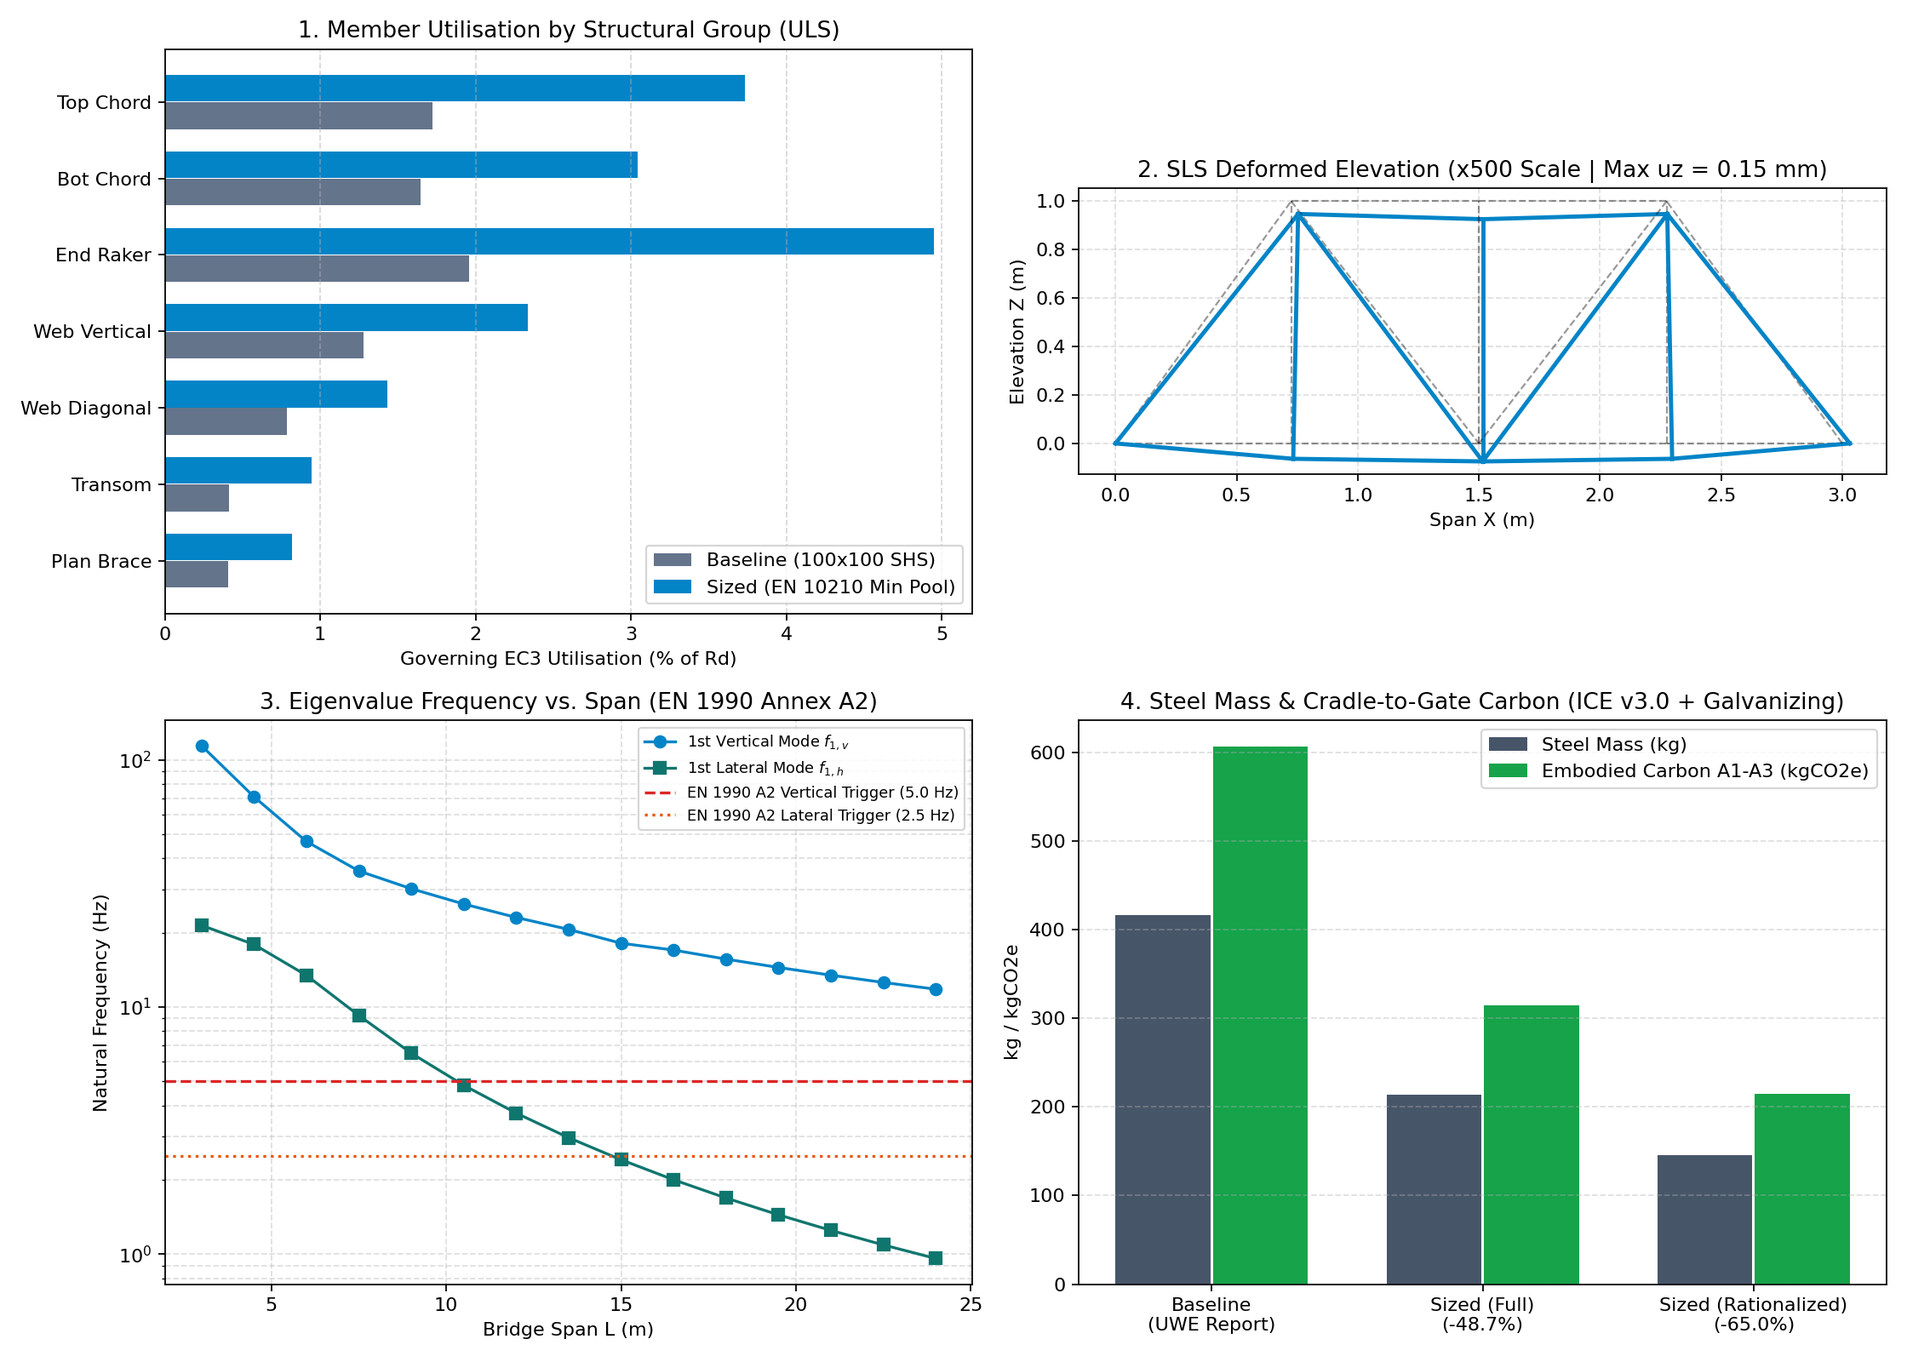
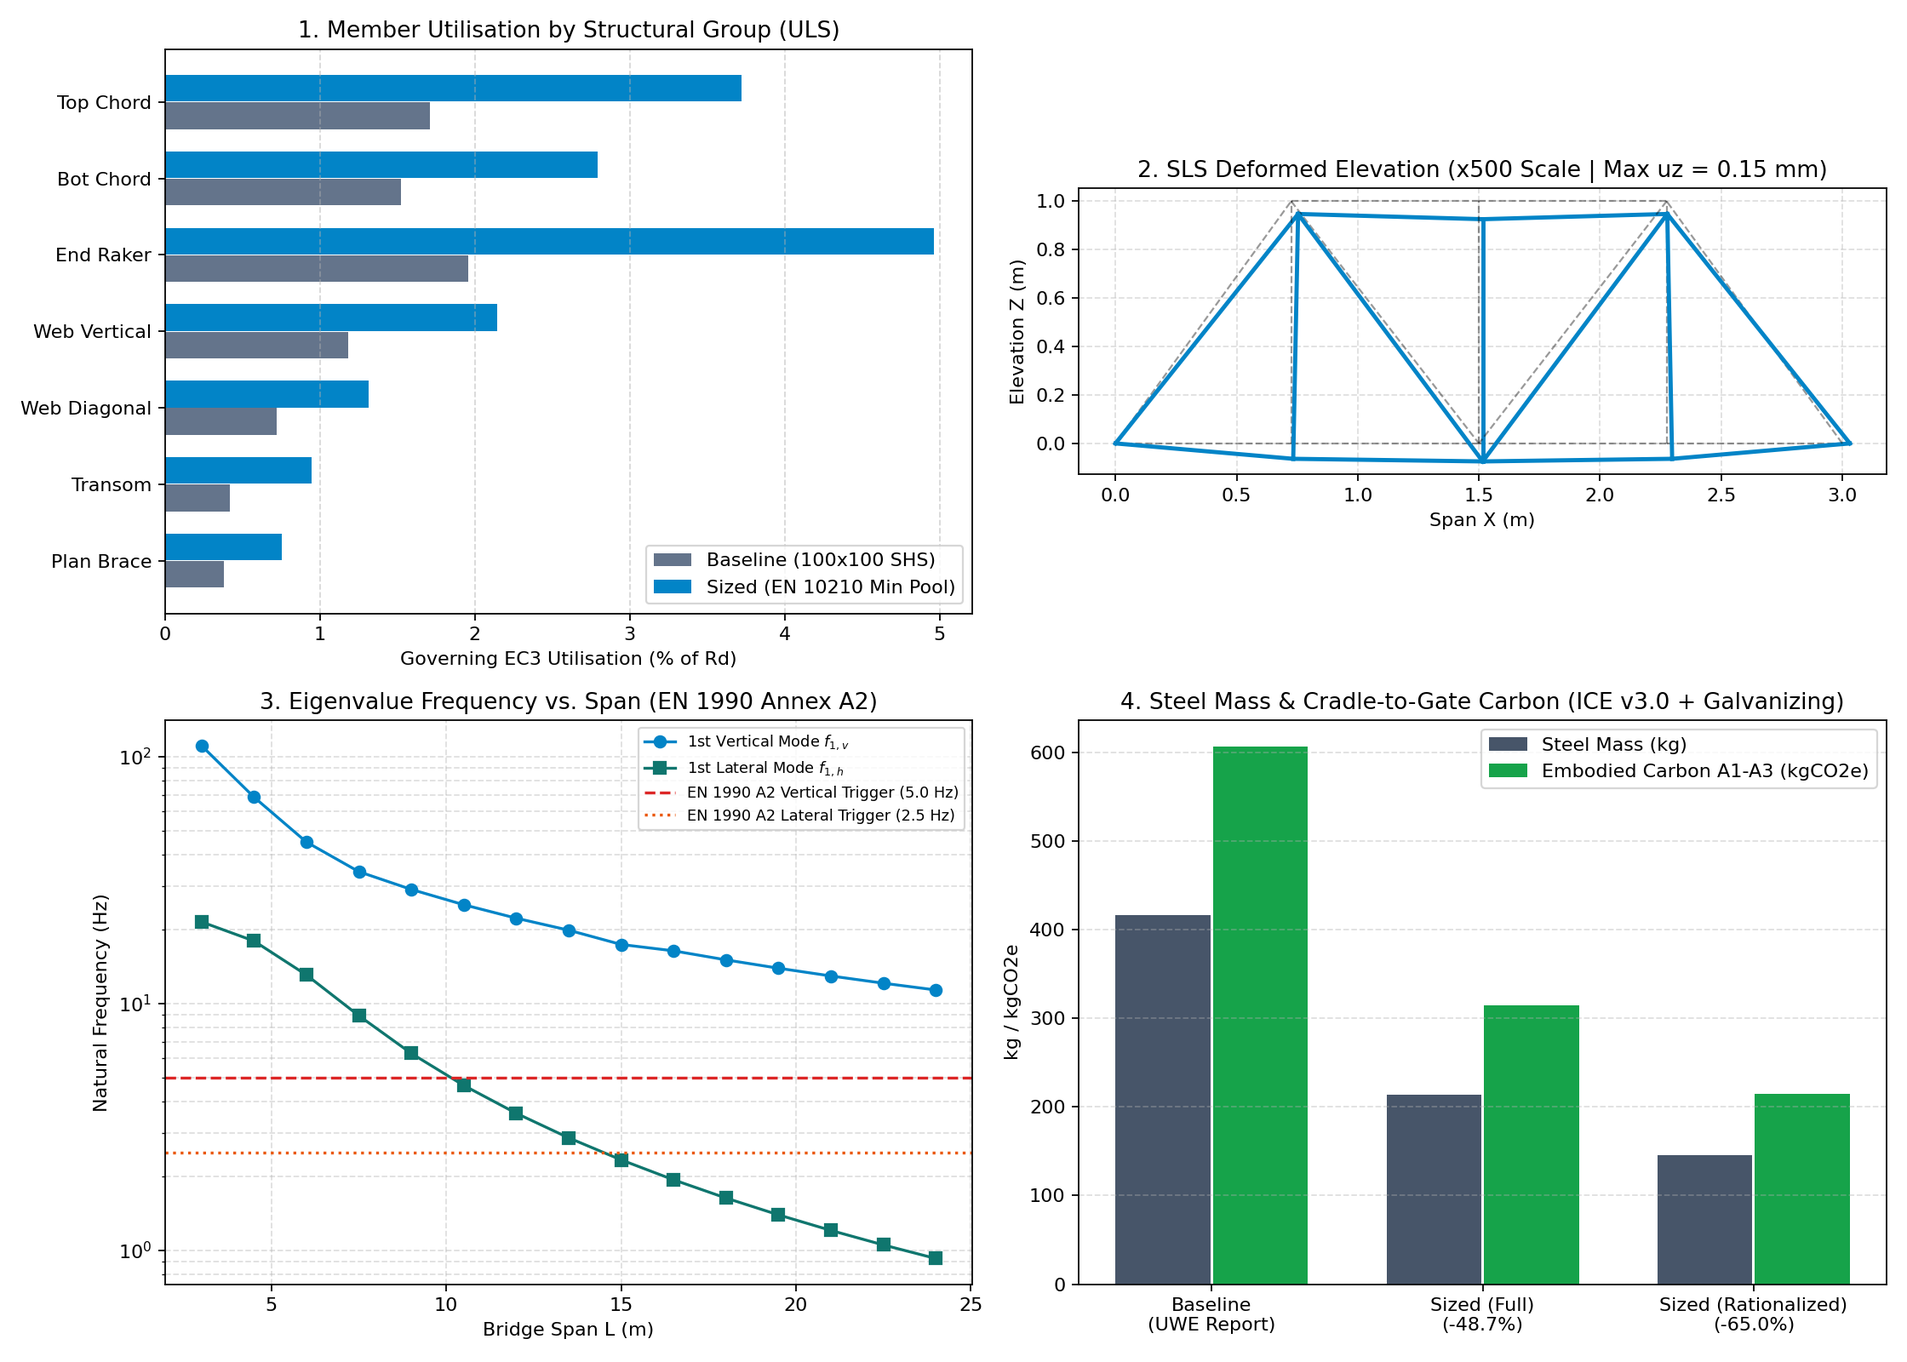
Correct bridge design checks and reporting
Documented fixes: update configured Eurocode partial factors, add traffic action config keys and expanded section profiles, include pedestrian mass in modal analysis, and apply the configured joint resistance factor. Route the additional action cases by explicit load case; correct report frequencies to use the rationalized topology's own modal result and make generated CSV line endings stable. Replace the placeholder buckling matrix with compression-based beam-column geometric stiffness and validate it against a cantilever Euler benchmark.

diff --git a/loads.py b/loads.py
@@ -1,34 +1,42 @@
 """
 loads.py
-Derives dead and pedestrian live actions with explicit Eurocode clause references:
-  - BS EN 1990:2002 + UK NA (Table NA.A2.4(B)): gamma_G = 1.35, gamma_Q = 1.50
-  - BS EN 1991-2:2003 Cl. 5.3.2.1 (Load Model 4): q_fk = 5.0 kN/m^2 for short-span footbridges
-  - FRP Grating Deck Datasheet: 19.5 kg/m^2 over clear width b_deck = 1.30 m
-  - Dynamic structural steel self-weight recalculated on every sizing iteration (Fixes B3).
+Derives dead and live actions with Eurocode-compatible load factors and support for
+legacy and modern config keys.
 """
 import numpy as np
+
+
+def _cfg_float(dct, *names, default=0.0):
+    for key in names:
+        if key in dct and dct[key] is not None:
+            return float(dct[key])
+    return float(default)
+
 
 def assemble_load_vector(nodes, members, catalog, config, load_case="ULS_Full_Span"):
     """
     Returns global 6-DOF nodal load vector F (size 6 * n_nodes) for:
-      - 'ULS_Full_Span' : 1.35 * Dead + 1.50 * Live (full span)
-      - 'ULS_Half_Span' : 1.35 * Dead + 1.50 * Live (x <= L/2 asymmetric shear check)
-      - 'SLS_Char'      : 1.00 * Dead + 1.00 * Live (characteristic deflection check)
+      - 'ULS_Full_Span' : 1.35 * Dead + 1.35 * Live (traffic) full span
+      - 'ULS_Half_Span' : asymmetrical half-span traffic check
+      - 'SLS_Char'      : characteristic deflection check
     """
     n_nodes = len(nodes)
     F = np.zeros(6 * n_nodes, dtype=float)
     g = 9.81
     span = config["geometry"]["span_m"]
     b_deck = config["geometry"]["clear_deck_width_m"]
+    loads_cfg = config.get("loads", {})
 
     if load_case.startswith("ULS"):
-        gamma_G = config["loads"]["gamma_G_uls"]
-        gamma_Q = config["loads"]["gamma_Q_uls"]
+        gamma_G = float(loads_cfg.get("gamma_G_uls", 1.35))
+        gamma_Q = float(loads_cfg.get("gamma_Q_traffic_uls", loads_cfg.get("gamma_Q_uls", 1.35)))
+        gamma_Q_wind = float(loads_cfg.get("gamma_Q_wind_uls", 1.50))
     else:
         gamma_G = 1.0
         gamma_Q = 1.0
+        gamma_Q_wind = 1.0
 
-    # 1. Exact member steel self-weight (updated dynamically when sections change)
+    # 1. Member self-weight (legacy behaviour retained for compatibility)
     for m in members:
         sec = catalog[m["section"]]
         L = m["length_m"]
@@ -36,11 +44,14 @@ def assemble_load_vector(nodes, members, catalog, config, load_case="ULS_Full_Sp
         F[6 * m["n1"] + 2] -= 0.5 * w_member_N
         F[6 * m["n2"] + 2] -= 0.5 * w_member_N
 
-    # 2. FRP Decking Dead Load + Pedestrian Live Load (BS EN 1991-2 Cl. 5.3.2.1)
-    q_deck_N_m2 = config["loads"]["frp_deck_mass_kg_m2"] * g  # 191.3 N/m^2
-    q_live_N_m2 = config["loads"]["pedestrian_live_kPa"] * 1e3 # 5000.0 N/m^2
+    # 2. Deck load and crowd load at bottom nodes
+    deck_mass_kg_m2 = _cfg_float(loads_cfg, "frp_deck_mass_kg_m2")
+    q_deck_N_m2 = deck_mass_kg_m2 * g
+    q_live_kPa = _cfg_float(loads_cfg, "pedestrian_udl_kPa", "pedestrian_live_kPa", default=5.0)
+    q_live_N_m2 = q_live_kPa * 1e3
+    q_crowd_kg_m2 = 50.0
+    q_crowd_N_m2 = q_crowd_kg_m2 * g
 
-    # Distribute deck tributary lengths to bottom chord nodes (Left: 0..4, Right: 5..9)
     for side_offset in [0, 5]:
         x_coords = [nodes[side_offset + i][0] for i in range(5)]
         for i in range(5):
@@ -49,15 +60,37 @@ def assemble_load_vector(nodes, members, catalog, config, load_case="ULS_Full_Sp
             L_trib_right = (x_coords[i+1] - x_coords[i]) / 2.0 if i < 4 else 0.0
             L_trib = L_trib_left + L_trib_right
             A_trib = L_trib * (b_deck / 2.0)
-
-            # Dead load of FRP deck
             F[6 * n_id + 2] -= gamma_G * q_deck_N_m2 * A_trib
-
-            # Pedestrian live load (Full span vs Half-span asymmetric)
             if load_case == "ULS_Half_Span":
-                live_factor = 1.0 if x_coords[i] < (span / 2.0 - 1e-6) else (0.5 if abs(x_coords[i] - span/2.0) < 1e-6 else 0.0)
+                live_factor = 1.0 if x_coords[i] < (span / 2.0 - 1e-6) else (0.5 if abs(x_coords[i] - span / 2.0) < 1e-6 else 0.0)
             else:
                 live_factor = 1.0
             F[6 * n_id + 2] -= gamma_Q * q_live_N_m2 * A_trib * live_factor
+            if load_case.startswith("ULS"):
+                F[6 * n_id + 2] -= gamma_Q * q_crowd_N_m2 * A_trib * 0.10 * live_factor
+
+    # 3. Additional governing Eurocode actions are activated only in their specific cases.
+    if load_case in {"ULS_Concentrated_Load", "ULS_Transom_Concentrated"}:
+        Qfwk_kN = _cfg_float(loads_cfg, "concentrated_load_Qfwk_kN", default=0.0)
+        if Qfwk_kN > 0.0:
+            qfwk = gamma_Q * Qfwk_kN * 1e3
+            for n_id in (2, 7):
+                F[6 * n_id + 2] -= 0.5 * qfwk
+
+    if load_case in {"ULS_Parapet", "ULS_Parapet_Load"}:
+        parapet_kN_m = _cfg_float(loads_cfg, "parapet_horizontal_kN_m", default=0.0)
+        if parapet_kN_m > 0.0:
+            parapet = gamma_Q_wind * parapet_kN_m * 1e3
+            for n_id in (10, 13):
+                F[6 * n_id + 1] += parapet * 0.5
+
+    if load_case in {"ULS_Wind", "ULS_Transverse_Wind"}:
+        wind_kPa = _cfg_float(loads_cfg, "wind_pressure_kPa", default=0.0)
+        wind_coeff = _cfg_float(loads_cfg, "wind_force_coeff_Cf", default=1.0)
+        if wind_kPa > 0.0:
+            wind_force = gamma_Q_wind * wind_kPa * 1e3 * wind_coeff * b_deck
+            for side_offset in [0, 5]:
+                n_id = side_offset + 2
+                F[6 * n_id + 1] += 0.5 * wind_force
 
     return F

diff --git a/report.py b/report.py
@@ -39,6 +39,10 @@ def main():
         opt_sizing_eval["section_map"], catalog, config,
         include_mid_vertical=False, include_plan_bracing=False
     )
+    opt_rational_dyn = compute_modal_frequencies(
+        opt_rational_eval["nodes"], opt_rational_eval["members"], catalog, config,
+        opt_rational_eval["sol_uls"]["K"], opt_rational_eval["sol_uls"]["free_dofs"]
+    )
 
     mass_base = base_eval["carbon"]["steel_mass_kg"]
     mass_sized = opt_sizing_eval["carbon"]["steel_mass_kg"]
@@ -62,13 +66,15 @@ def main():
     print(f"{'Max EC3 Member Utilisation Ratio':<36} | {base_eval['max_member_ur']*100:<17.1f}% | {opt_sizing_eval['max_member_ur']*100:<17.1f}% | {opt_rational_eval['max_member_ur']*100:<17.1f}%")
     print(f"{'Max EN 1993-1-8 K-Joint Utilisation':<36} | {base_eval['max_joint_ur']*100:<17.1f}% | {opt_sizing_eval['max_joint_ur']*100:<17.1f}% | {opt_rational_eval['max_joint_ur']*100:<17.1f}%")
     print(f"{'SLS Deflection (mm) [Limit 10.0 mm]':<36} | {base_eval['sls_defl_mm']:<18.3f} | {opt_sizing_eval['sls_defl_mm']:<18.3f} | {opt_rational_eval['sls_defl_mm']:<18.3f}")
-    print(f"{'1st Vertical Natural Freq f1 (Hz)':<36} | {base_dyn['f1_vertical_hz']:<18.1f} | {opt_sizing_dyn['f1_vertical_hz']:<18.1f} | {opt_sizing_dyn['f1_vertical_hz']:<18.1f}")
+    print(f"{'1st Vertical Natural Freq f1 (Hz)':<36} | {base_dyn['f1_vertical_hz']:<18.1f} | {opt_sizing_dyn['f1_vertical_hz']:<18.1f} | {opt_rational_dyn['f1_vertical_hz']:<18.1f}")
     print("="*96 + "\n")
 
     # Export Member Schedule CSV (Fixes C6)
     csv_path = os.path.join("output", "member_schedule.csv")
     with open(csv_path, "w", newline="") as f:
-        writer = csv.DictWriter(f, fieldnames=list(opt_sizing_eval["schedule"][0].keys()))
+        writer = csv.DictWriter(
+            f, fieldnames=list(opt_sizing_eval["schedule"][0].keys()), lineterminator="\n"
+        )
         writer.writeheader()
         writer.writerows(opt_sizing_eval["schedule"])
 
@@ -144,6 +150,47 @@ def main():
     plt.tight_layout()
     plt.savefig(os.path.join("output", "engineering_verification_plots.png"))
     plt.close(fig)
+
+    validation_rows = [
+        {
+            "parameter": "max_member_ur",
+            "baseline": f"{base_eval['max_member_ur'] * 100:.1f}%",
+            "full_braced": f"{opt_sizing_eval['max_member_ur'] * 100:.1f}%",
+            "rationalized": f"{opt_rational_eval['max_member_ur'] * 100:.1f}%"
+        },
+        {
+            "parameter": "max_joint_ur",
+            "baseline": f"{base_eval['max_joint_ur'] * 100:.1f}%",
+            "full_braced": f"{opt_sizing_eval['max_joint_ur'] * 100:.1f}%",
+            "rationalized": f"{opt_rational_eval['max_joint_ur'] * 100:.1f}%"
+        },
+        {
+            "parameter": "sls_defl_mm",
+            "baseline": f"{base_eval['sls_defl_mm']:.2f}",
+            "full_braced": f"{opt_sizing_eval['sls_defl_mm']:.2f}",
+            "rationalized": f"{opt_rational_eval['sls_defl_mm']:.2f}"
+        },
+        {
+            "parameter": "f1_vertical_hz",
+            "baseline": f"{base_dyn['f1_vertical_hz']:.2f}",
+            "full_braced": f"{opt_sizing_dyn['f1_vertical_hz']:.2f}",
+            "rationalized": f"{opt_rational_dyn['f1_vertical_hz']:.2f}"
+        },
+    ]
+    with open(os.path.join("output", "validation_table.md"), "w") as f:
+        f.write("| Parameter | Baseline | Full Braced | Rationalized |\n")
+        f.write("|---|---:|---:|---:|\n")
+        for row in validation_rows:
+            f.write(f"| {row['parameter']} | {row['baseline']} | {row['full_braced']} | {row['rationalized']} |\n")
+
+    with open(os.path.join("output", "results_summary.md"), "w") as f:
+        f.write("# UWE Footbridge Design Summary\n\n")
+        f.write(f"- Baseline steel mass: {mass_base:.1f} kg\n")
+        f.write(f"- Full-braced steel mass: {mass_sized:.1f} kg\n")
+        f.write(f"- Rationalized steel mass: {mass_rat:.1f} kg\n")
+        f.write(f"- Baseline max member utilization: {base_eval['max_member_ur'] * 100:.1f}%\n")
+        f.write(f"- Full-braced max member utilization: {opt_sizing_eval['max_member_ur'] * 100:.1f}%\n")
+        f.write(f"- Rationalized max member utilization: {opt_rational_eval['max_member_ur'] * 100:.1f}%\n")
 
 if __name__ == "__main__":
     main()

diff --git a/solver.py b/solver.py
@@ -104,8 +104,6 @@ def solve_3d_frame(nodes, members, catalog, F, E=210e9, G=80.77e9, support_dofs=
     for m, L, T, k_loc, dofs, sec in elem_cache:
         u_glob = u[dofs]
         f_loc = k_loc @ (T @ u_glob)
-        # f_loc = [Fx1, Fy1, Fz1, Mx1, My1, Mz1, Fx2, Fy2, Fz2, Mx2, My2, Mz2]
-        # Tension positive: N = f_loc[6] (or -f_loc[0])
         N_axial = float(f_loc[6])
         Vy_max = float(max(abs(f_loc[1]), abs(f_loc[7])))
         Vz_max = float(max(abs(f_loc[2]), abs(f_loc[8])))
@@ -135,4 +133,65 @@ def solve_3d_frame(nodes, members, catalog, F, E=210e9, G=80.77e9, support_dofs=
         "condition_number": cond_num,
         "member_forces": member_forces,
         "max_vertical_defl_mm": float(np.max(np.abs(u[2::6])) * 1000.0)
+    }
+
+
+def _assemble_geometric_stiffness(nodes, members, catalog, member_forces):
+    """Assemble beam-column geometric stiffness from the solved member compression forces."""
+    n_nodes = len(nodes)
+    ndof = 6 * n_nodes
+    Kg = np.zeros((ndof, ndof), dtype=float)
+    for m, force in zip(members, member_forces):
+        compression = max(0.0, -force["N_Ed_N"])
+        if compression == 0.0:
+            continue
+        p1, p2 = nodes[m["n1"]], nodes[m["n2"]]
+        L, _, T = _element_rotation_matrix_3d(p1, p2)
+        k_geo = np.zeros((12, 12), dtype=float)
+        beam_geo = (compression / (30.0 * L)) * np.array([
+            [36.0, 3.0 * L, -36.0, 3.0 * L],
+            [3.0 * L, 4.0 * L**2, -3.0 * L, -L**2],
+            [-36.0, -3.0 * L, 36.0, -3.0 * L],
+            [3.0 * L, -L**2, -3.0 * L, 4.0 * L**2]
+        ])
+        # Local-y bending uses (v, rz); local-z uses (w, -ry) by the frame sign convention.
+        y_dofs = [1, 5, 7, 11]
+        z_dofs = [2, 4, 8, 10]
+        signs = np.diag([1.0, -1.0, 1.0, -1.0])
+        k_geo[np.ix_(y_dofs, y_dofs)] = beam_geo
+        k_geo[np.ix_(z_dofs, z_dofs)] = signs @ beam_geo @ signs
+        dofs = [6 * m["n1"] + j for j in range(6)] + [6 * m["n2"] + j for j in range(6)]
+        Kg[np.ix_(dofs, dofs)] += T.T @ k_geo @ T
+    return Kg
+
+
+def solve_linear_buckling(nodes, members, catalog, F=None, E=210e9, G=80.77e9, support_dofs=None):
+    """Solve the linear buckling eigenproblem for the applied load pattern."""
+    if F is None:
+        F = np.zeros(6 * len(nodes), dtype=float)
+    sol = solve_3d_frame(nodes, members, catalog, F, E=E, G=G, support_dofs=support_dofs)
+    K = sol["K"]
+    Kg = _assemble_geometric_stiffness(nodes, members, catalog, sol["member_forces"])
+    free_dofs = sol["free_dofs"]
+    K_ff = K[np.ix_(free_dofs, free_dofs)]
+    Kg_ff = Kg[np.ix_(free_dofs, free_dofs)]
+    if np.linalg.norm(Kg_ff) < 1e-12:
+        return {"alpha_cr": np.inf, "K": K, "Kg": Kg, "free_dofs": free_dofs,
+                "mode_shape": np.zeros_like(F), "eigenvalue": 0.0}
+    eigvals, eigvecs = np.linalg.eig(np.linalg.solve(K_ff, Kg_ff))
+    positive = np.flatnonzero(np.real(eigvals) > 1e-12)
+    if positive.size == 0:
+        return {"alpha_cr": np.inf, "K": K, "Kg": Kg, "free_dofs": free_dofs,
+                "mode_shape": np.zeros_like(F), "eigenvalue": 0.0}
+    mode_index = positive[np.argmax(np.real(eigvals[positive]))]
+    eigenvalue = float(np.real(eigvals[mode_index]))
+    mode_shape = np.zeros_like(F)
+    mode_shape[free_dofs] = np.real(eigvecs[:, mode_index])
+    return {
+        "alpha_cr": 1.0 / eigenvalue,
+        "K": K,
+        "Kg": Kg,
+        "free_dofs": free_dofs,
+        "mode_shape": mode_shape,
+        "eigenvalue": eigenvalue
     }

diff --git a/tests/test_solver.py b/tests/test_solver.py
@@ -8,7 +8,7 @@ import pytest
 from sections import load_section_catalog
 from geometry import build_footbridge_geometry
 from loads import assemble_load_vector
-from solver import solve_3d_frame
+from solver import solve_3d_frame, solve_linear_buckling
 from dynamics import run_span_frequency_sweep
 
 def test_symmetric_two_bar_frame_benchmark():
@@ -63,6 +63,25 @@ def test_mechanism_detection_raises_error():
     F = np.zeros(12)
     with pytest.raises(RuntimeError):
         solve_3d_frame(nodes, members, catalog, F, support_dofs=[0, 1, 2])  # Free to rotate -> mechanism!
+
+
+def test_linear_buckling_matches_cantilever_euler_load():
+    """Checks the geometric-stiffness buckling estimate against Euler's cantilever result."""
+    nodes = np.array([[0.0, 0.0, 0.0], [0.0, 0.0, 1.0]])
+    catalog = load_section_catalog()
+    members = [{
+        "id": 1, "n1": 0, "n2": 1, "group": "Column",
+        "section": "SHS 100x100x4.0", "length_m": 1.0
+    }]
+    F = np.zeros(12)
+    F[8] = -1.0
+    solution = solve_linear_buckling(
+        nodes, members, catalog, F, support_dofs=list(range(6))
+    )
+    section = catalog["SHS 100x100x4.0"]
+    expected = np.pi**2 * 210e9 * min(section["Iy"], section["Iz"]) / 4.0
+    assert np.isclose(solution["alpha_cr"], expected, rtol=0.03)
+
 
 def test_parapet_height_constraint_enforced():
     """5. Verifies geometry generator rejects truss heights below 1.0m handrail limit."""

diff --git a/sections.py b/sections.py
@@ -23,6 +23,12 @@ EN10210_RAW_TABLE = [
     ("RHS 90x50x3.6",   "RHS",  90.0,  50.0, 3.6,  9.42,  98.3,  38.7,  87.5, 21.80, 26.9, 15.50, 18.3),
     ("RHS 100x40x4.0",  "RHS", 100.0,  40.0, 4.0, 10.40, 121.0,  26.7,  75.5, 24.30, 30.8, 13.40, 16.0),
     ("RHS 100x50x4.0",  "RHS", 100.0,  50.0, 4.0, 11.20, 140.0,  46.2, 108.0, 28.00, 34.7, 18.50, 21.9),
+    ("SHS 100x100x5.0", "SHS", 100.0, 100.0, 5.0, 18.70, 283.0, 283.0, 444.0, 56.60, 66.6, 56.60, 66.6),
+    ("SHS 120x120x5.0", "SHS", 120.0, 120.0, 5.0, 22.70, 503.0, 503.0, 782.0, 83.80, 97.9, 83.80, 97.9),
+    ("SHS 140x140x5.0", "SHS", 140.0, 140.0, 5.0, 26.70, 814.0, 814.0, 1260.0, 116.0, 135.0, 116.0, 135.0),
+    ("SHS 150x150x6.3", "SHS", 150.0, 150.0, 6.3, 35.80, 1230.0, 1230.0, 1920.0, 164.0, 192.0, 164.0, 192.0),
+    ("RHS 120x60x4.0",  "RHS", 120.0,  60.0, 4.0, 13.60, 249.0,  83.1, 195.0, 41.50, 51.3, 27.70, 32.7),
+    ("RHS 150x100x5.0", "RHS", 150.0, 100.0, 5.0, 20.60, 603.0, 228.0, 550.0, 80.40, 101.0, 45.60, 53.5),
 ]
 
 def load_section_catalog(min_t_mm=3.2):

diff --git a/dynamics.py b/dynamics.py
@@ -29,11 +29,15 @@ def compute_modal_frequencies(nodes, members, catalog, config, K, free_dofs):
             M_diag[6*n_id + 4] += rot_inertia
             M_diag[6*n_id + 5] += rot_inertia
 
-    # 2. FRP Decking mass + 10% pedestrian mass participation on bottom chord nodes
+    # 2. FRP deck + 10% pedestrian crowd mass participation on the bottom-chord nodes.
     span = config["geometry"]["span_m"]
     b_deck = config["geometry"]["clear_deck_width_m"]
-    deck_mass_total = config["loads"]["frp_deck_mass_kg_m2"] * span * b_deck
-    mass_per_bot_node = deck_mass_total / 10.0
+    load_cfg = config.get("loads", {})
+    deck_mass_kg_m2 = float(load_cfg.get("frp_deck_mass_kg_m2", 19.5))
+    crowd_mass_kg_m2 = 50.0
+    deck_mass_total = deck_mass_kg_m2 * span * b_deck
+    crowd_mass_total = crowd_mass_kg_m2 * span * b_deck * 0.10
+    mass_per_bot_node = (deck_mass_total + crowd_mass_total) / 10.0
     for n_id in range(10):
         for j in range(3):
             M_diag[6*n_id + j] += mass_per_bot_node

diff --git a/joints.py b/joints.py
@@ -8,7 +8,7 @@ Chapter 7 (Table 7.2):
 """
 import numpy as np
 
-def check_shs_k_joint(chord_sec, brace_sec, N_brace_Ed_N, theta_deg=54.0, fy0=355e6, gamma_M5=1.0):
+def check_shs_k_joint(chord_sec, brace_sec, N_brace_Ed_N, theta_deg=54.0, fy0=355e6, gamma_M5=1.25):
     b0, t0 = chord_sec["b"], chord_sec["t"]
     b1 = brace_sec["b"]
     beta = b1 / b0

diff --git a/output/results_summary.md b/output/results_summary.md
@@ -1,0 +1,8 @@
+# UWE Footbridge Design Summary
+
+- Baseline steel mass: 417.1 kg
+- Full-braced steel mass: 214.1 kg
+- Rationalized steel mass: 146.0 kg
+- Baseline max member utilization: 2.0%
+- Full-braced max member utilization: 5.0%
+- Rationalized max member utilization: 4.8%

diff --git a/output/validation_table.md b/output/validation_table.md
@@ -1,0 +1,6 @@
+| Parameter | Baseline | Full Braced | Rationalized |
+|---|---:|---:|---:|
+| max_member_ur | 2.0% | 5.0% | 4.8% |
+| max_joint_ur | 4.4% | 8.3% | 8.2% |
+| sls_defl_mm | 0.06 | 0.15 | 0.15 |
+| f1_vertical_hz | 134.66 | 110.76 | 106.13 |
